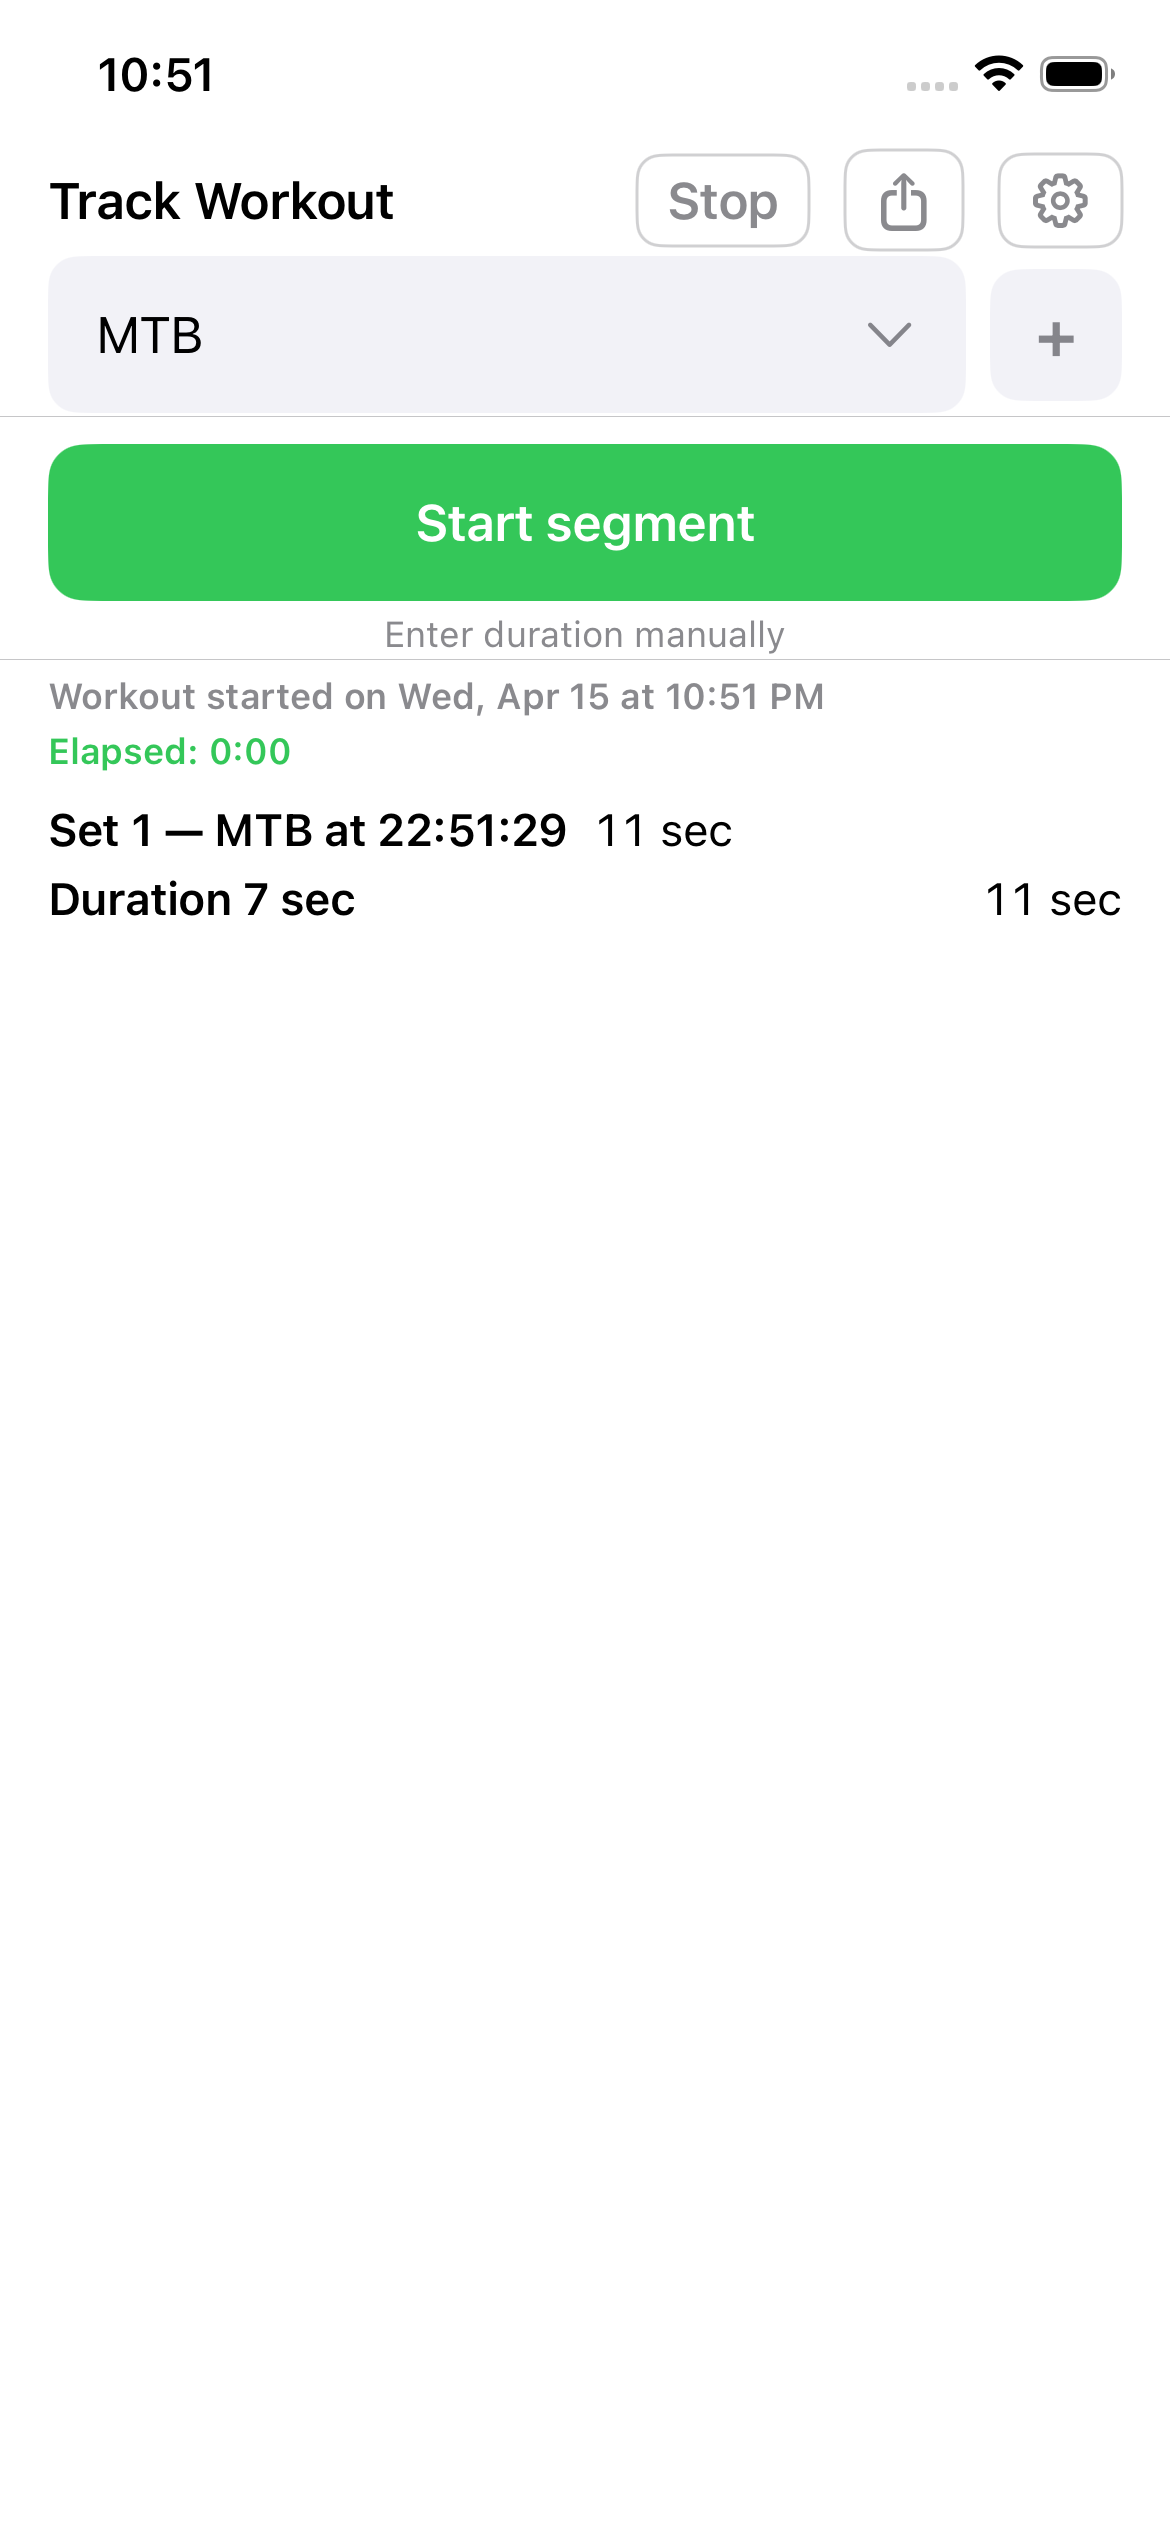
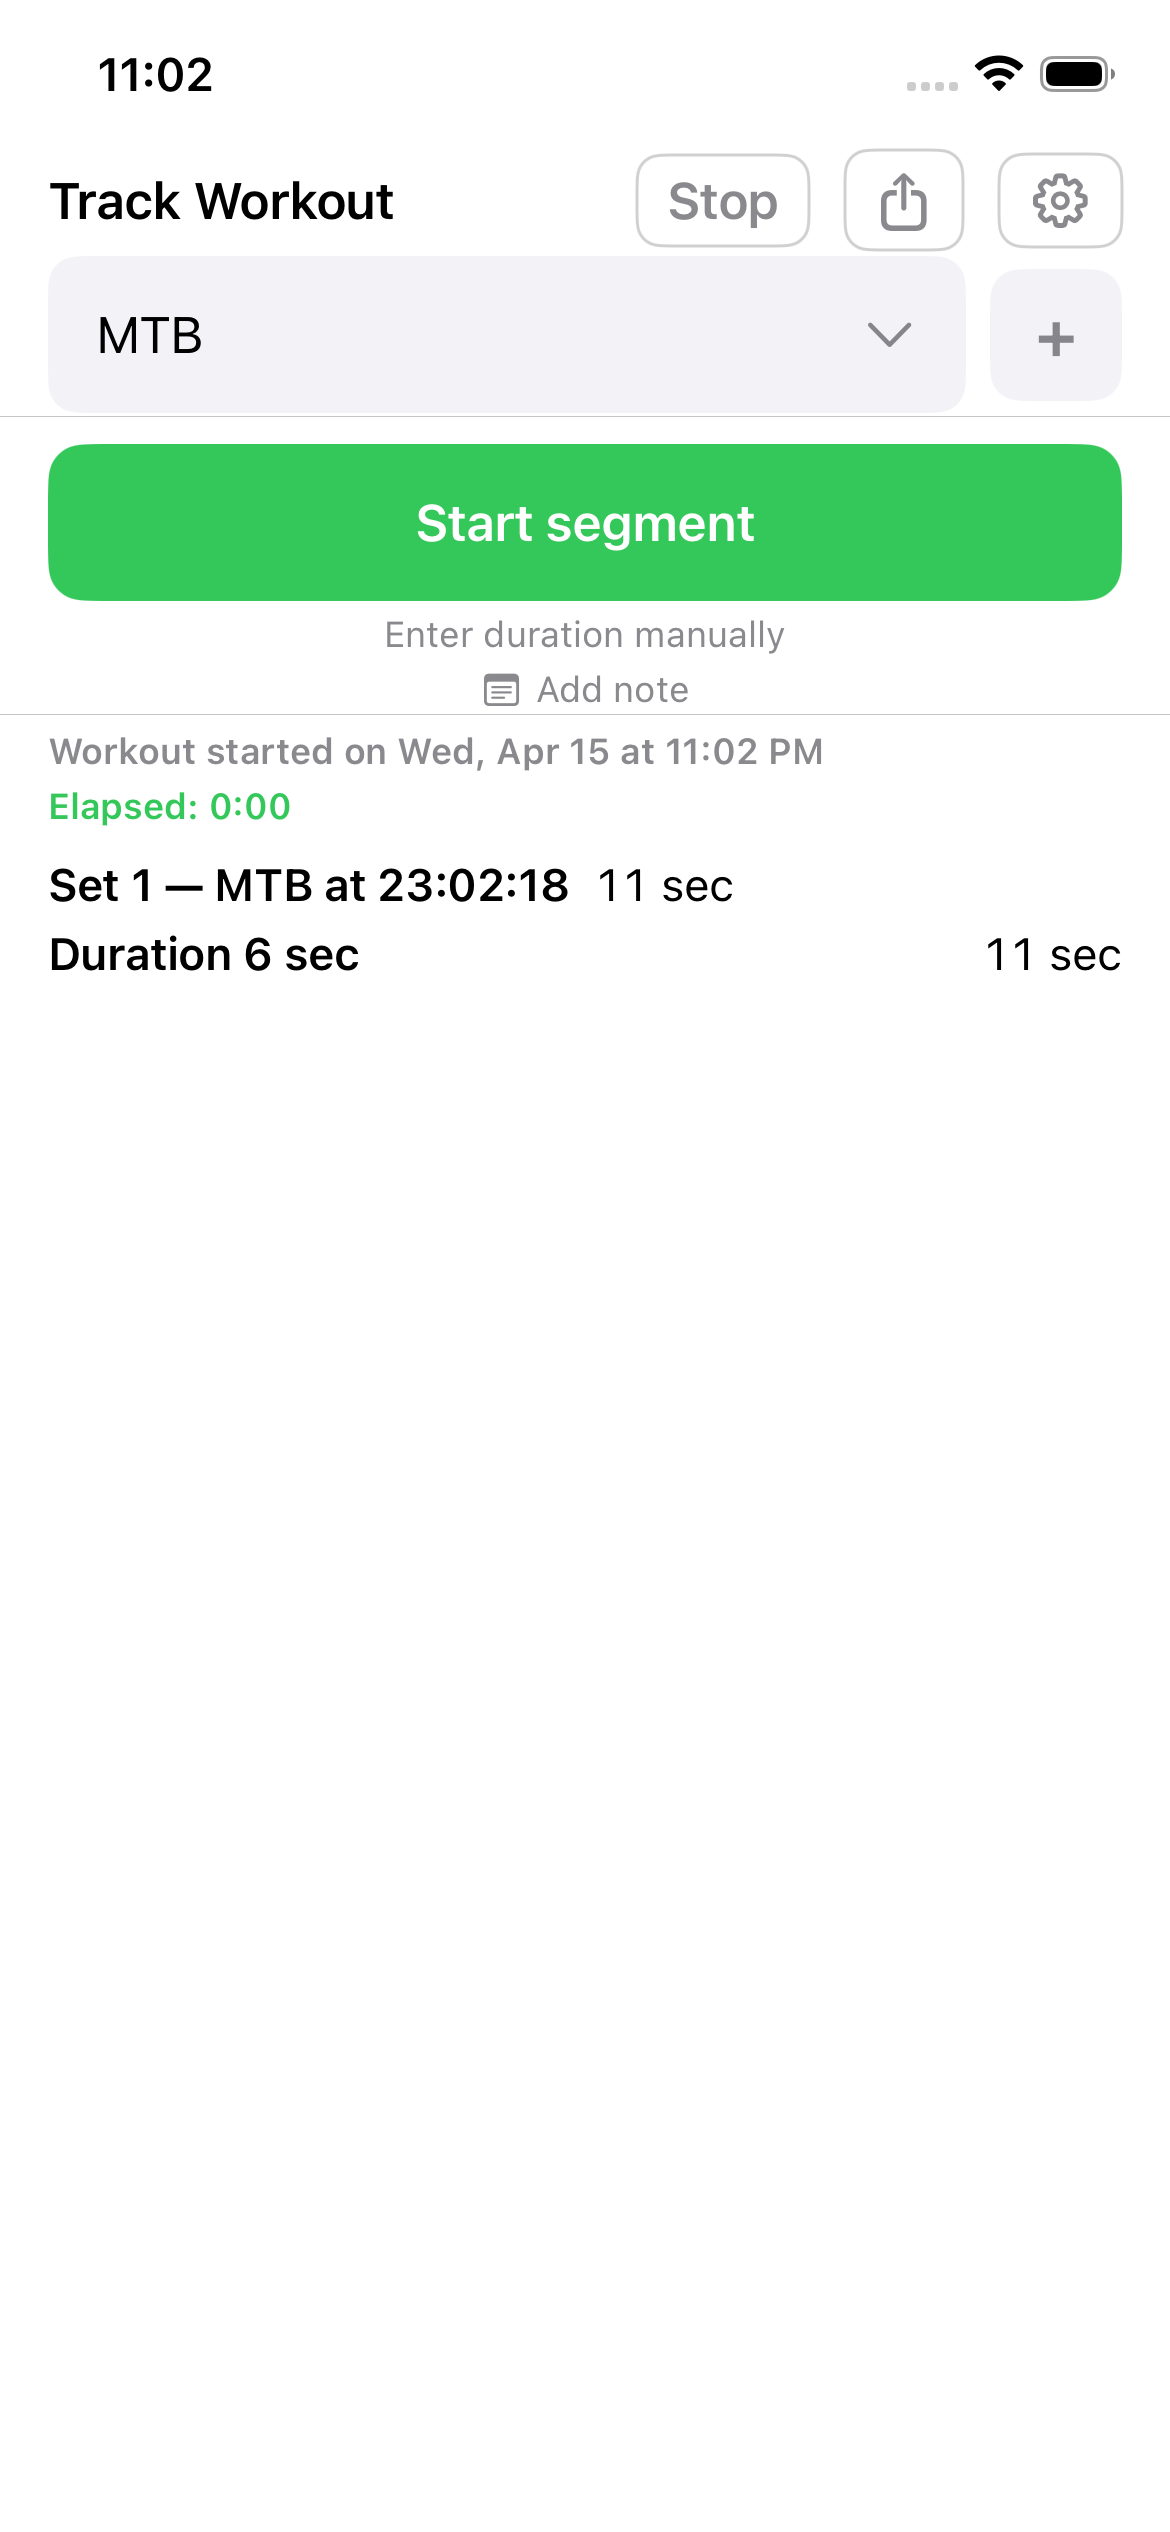
Milestone 5: notes UI (entry-creation + history rendering)
Free-text notes attached to entries, per spec v2 invariant: optional,
second-tier, never blocks Log.

Entry-creation path:
- WorkoutViewModel.pendingNote (@Published String, default "")
- "Add note" button visible whenever a workout is in progress (small,
  secondary, below the Log button); icon + label flip to "Note pending"
  when text is queued.
- Tap → NoteSheet (multi-line TextEditor, 1000-char cap, Save/Cancel).
- On Log (strength) and Stop segment (cardio), pendingNote is trimmed
  and attached to the new LogEntry.notes if non-empty.
- resetAfterLog / resetForMoveChange clear pendingNote so the same note
  isn't accidentally re-attached to the next set.

History rendering:
- EntryRow restructured: existing line (weight×reps or duration) on top,
  italic secondary-color note below if entry.notes is non-empty.
- No tap-to-edit on history entries yet — that's a follow-up.

Maestro flow runs/flows/note-attached-to-entry.yaml: enter weight/reps,
tap Add note, type "felt heavy today", Save, Log, Stop. Verifies:
- Note pending indicator after save
- Note attached to entry (visible inline)
- pendingNote cleared after log (Add note re-shown)
- Note still rendered after workout dismiss

All 5 existing flows still green: scripts 01, 02, 03, cardio-segment,
add-move-freeform.

Spec source: https://github.com/blaine-2050/track-workout-core/blob/main/PRD.md
(Functional Requirement #8: notes are first-class on every entry.)

Changed region(s): [[0.0308, 0.2496, 0.7077, 0.4056], [0.0923, 0.0, 0.1846, 0.0624], [0.8923, 0.3432, 0.9538, 0.4056]]

diff --git a/TrackWorkout/TrackWorkout/Views/EventHistory.swift b/TrackWorkout/TrackWorkout/Views/EventHistory.swift
@@ -311,35 +311,44 @@ private struct EntryRow: View {
     }
 
     var body: some View {
-        HStack {
-            if entry.durationSeconds > 0 {
-                Text("Duration \(formattedDuration)")
-                    .font(.subheadline)
-                    .fontWeight(.semibold)
-            } else {
-                HStack(spacing: 12) {
-                    Text("\(entry.weight, specifier: "%.0f") \(unitLabel)")
-                        .font(.subheadline)
-                        .frame(minWidth: 56, alignment: .trailing)
-                    Text("×")
-                        .font(.caption)
-                        .foregroundColor(.secondary)
-                    Text("\(entry.reps)")
-                        .font(.subheadline)
-                        .frame(width: 24, alignment: .trailing)
-                    Text("=")
-                        .font(.caption)
-                        .foregroundColor(.secondary)
-                    Text("\(totalWeight, specifier: "%.0f") \(unitLabel)")
+        VStack(alignment: .leading, spacing: 2) {
+            HStack {
+                if entry.durationSeconds > 0 {
+                    Text("Duration \(formattedDuration)")
                         .font(.subheadline)
                         .fontWeight(.semibold)
-                        .frame(minWidth: 64, alignment: .trailing)
+                } else {
+                    HStack(spacing: 12) {
+                        Text("\(entry.weight, specifier: "%.0f") \(unitLabel)")
+                            .font(.subheadline)
+                            .frame(minWidth: 56, alignment: .trailing)
+                        Text("×")
+                            .font(.caption)
+                            .foregroundColor(.secondary)
+                        Text("\(entry.reps)")
+                            .font(.subheadline)
+                            .frame(width: 24, alignment: .trailing)
+                        Text("=")
+                            .font(.caption)
+                            .foregroundColor(.secondary)
+                        Text("\(totalWeight, specifier: "%.0f") \(unitLabel)")
+                            .font(.subheadline)
+                            .fontWeight(.semibold)
+                            .frame(minWidth: 64, alignment: .trailing)
+                    }
                 }
+                Spacer()
+                Text(formatElapsed(start: entry.startedAt ?? entry.timestamp, end: entry.endedAt ?? Date()))
+                    .font(.subheadline)
+                    .monospacedDigit()
             }
-            Spacer()
-            Text(formatElapsed(start: entry.startedAt ?? entry.timestamp, end: entry.endedAt ?? Date()))
-                .font(.subheadline)
-                .monospacedDigit()
+            if let notes = entry.notes, !notes.isEmpty {
+                Text(notes)
+                    .font(.caption)
+                    .italic()
+                    .foregroundColor(.secondary)
+                    .padding(.leading, 4)
+            }
         }
         .padding(.vertical, 2)
         .background(Color(.systemBackground))

diff --git a/TrackWorkout/TrackWorkout/ContentView.swift b/TrackWorkout/TrackWorkout/ContentView.swift
@@ -16,6 +16,7 @@ struct ContentView: View {
     /// True when the user has expanded the "Enter duration manually" disclosure
     /// inside cardio mode — falls back to the legacy HH:MM:SS keypad path.
     @State private var cardioManualEntry: Bool = false
+    @State private var showNoteSheet: Bool = false
     private let exportTimestampFormatter: DateFormatter = {
         let formatter = DateFormatter()
         formatter.locale = Locale(identifier: "en_US_POSIX")
@@ -200,6 +201,27 @@ struct ContentView: View {
                     .padding(.horizontal)
                 }
 
+                // Note affordance — second-tier, never blocks Log.
+                // Visible whenever a workout is in progress so the user can
+                // attach a quick note to the next entry they log.
+                if viewModel.isWorkoutInProgress {
+                    HStack {
+                        Spacer()
+                        Button(action: { showNoteSheet = true }) {
+                            HStack(spacing: 4) {
+                                Image(systemName: viewModel.pendingNote.isEmpty ? "note.text" : "note.text.badge.plus")
+                                    .font(.caption)
+                                Text(viewModel.pendingNote.isEmpty ? "Add note" : "Note pending")
+                                    .font(.caption)
+                            }
+                            .foregroundColor(.secondary)
+                        }
+                        .accessibilityIdentifier("add-note-button")
+                        Spacer()
+                    }
+                    .padding(.top, 4)
+                }
+
                 Divider()
                     .padding(.vertical, 1)
 
@@ -233,6 +255,9 @@ struct ContentView: View {
             }
             .sheet(isPresented: $showSettings) {
                 SettingsSheet()
+            }
+            .sheet(isPresented: $showNoteSheet) {
+                NoteSheet(note: $viewModel.pendingNote, title: "Note for next entry")
             }
             .onAppear {
                 viewModel.refreshPendingSyncCount()
@@ -298,6 +323,10 @@ struct ContentView: View {
         entry.durationSeconds = Double(durationSeconds)
         entry.weight = 0
         entry.reps = 0
+        let trimmedNote = viewModel.pendingNote.trimmingCharacters(in: .whitespacesAndNewlines)
+        if !trimmedNote.isEmpty {
+            entry.notes = trimmedNote
+        }
 
         stampEndedAtOnPreviousEntry(now: now)
 
@@ -339,6 +368,12 @@ struct ContentView: View {
                 newEntry.weight = weight
                 newEntry.reps = reps
                 newEntry.weightUnit = weightUnit
+            }
+
+            // Attach pending note if any. Trim and skip empty.
+            let trimmedNote = viewModel.pendingNote.trimmingCharacters(in: .whitespacesAndNewlines)
+            if !trimmedNote.isEmpty {
+                newEntry.notes = trimmedNote
             }
 
             // Stamp endedAt on the previous entry if it doesn't have one

diff --git a/TrackWorkout/TrackWorkout/Views/NoteSheet.swift b/TrackWorkout/TrackWorkout/Views/NoteSheet.swift
@@ -1,0 +1,50 @@
+import SwiftUI
+
+/// Free-text note editor. Bound to a String — caller decides where the
+/// text lives (e.g. WorkoutViewModel.pendingNote during entry, or a
+/// per-entry binding when editing a logged entry).
+struct NoteSheet: View {
+    @Environment(\.dismiss) private var dismiss
+    @Binding var note: String
+    var title: String = "Note"
+
+    @State private var draft: String = ""
+
+    var body: some View {
+        NavigationStack {
+            VStack(alignment: .leading, spacing: 0) {
+                TextEditor(text: $draft)
+                    .padding()
+                    .accessibilityIdentifier("note-textfield")
+                Text("\(draft.count) / 1000")
+                    .font(.caption2)
+                    .foregroundColor(.secondary)
+                    .padding(.horizontal)
+                    .padding(.bottom, 8)
+            }
+            .navigationTitle(title)
+            .navigationBarTitleDisplayMode(.inline)
+            .toolbar {
+                ToolbarItem(placement: .cancellationAction) {
+                    Button("Cancel") { dismiss() }
+                        .accessibilityIdentifier("note-cancel")
+                }
+                ToolbarItem(placement: .confirmationAction) {
+                    Button("Save") {
+                        // Cap at 1000 chars per spec.
+                        note = String(draft.prefix(1000))
+                        dismiss()
+                    }
+                    .accessibilityIdentifier("note-save")
+                }
+            }
+            .onAppear {
+                draft = note
+            }
+        }
+    }
+}
+
+#Preview {
+    NoteSheet(note: .constant("wind in face"))
+}

diff --git a/TrackWorkout/TrackWorkout/ViewModels/WorkoutViewModel.swift b/TrackWorkout/TrackWorkout/ViewModels/WorkoutViewModel.swift
@@ -130,6 +130,10 @@ class WorkoutViewModel: ObservableObject {
     @Published var lastLoggedAt: Date?
     /// Non-nil while a tap-start/tap-stop cardio segment is in progress.
     @Published var cardioSegmentStart: Date?
+    /// Free-text note attached to the next entry the user logs.
+    /// Cleared in resetAfterLog so the same note isn't accidentally
+    /// re-attached to the next set.
+    @Published var pendingNote: String = ""
     @Published var pendingSyncCount: Int = 0
     @Published var syncStatusMessage: String = "Sync queue empty"
 
@@ -296,6 +300,7 @@ class WorkoutViewModel: ObservableObject {
         intervalSeconds = ""
         intervalField = .hours
         cardioSegmentStart = nil
+        pendingNote = ""
         lastLoggedAt = Date()
         moveSelectedAt = Date()
     }
@@ -311,6 +316,7 @@ class WorkoutViewModel: ObservableObject {
         intervalSeconds = ""
         intervalField = .hours
         cardioSegmentStart = nil
+        pendingNote = ""
         moveSelectedAt = Date()
     }
 
